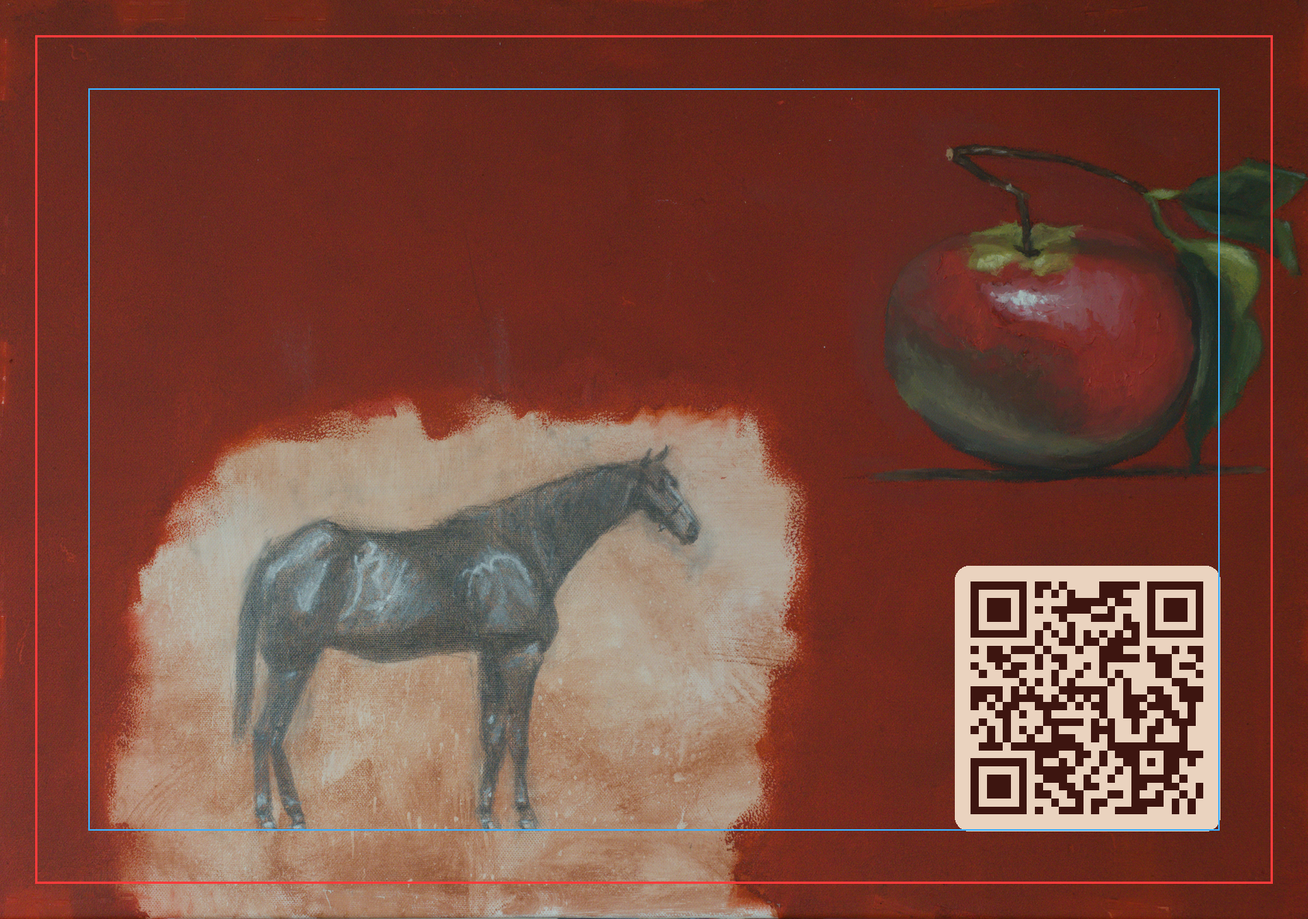
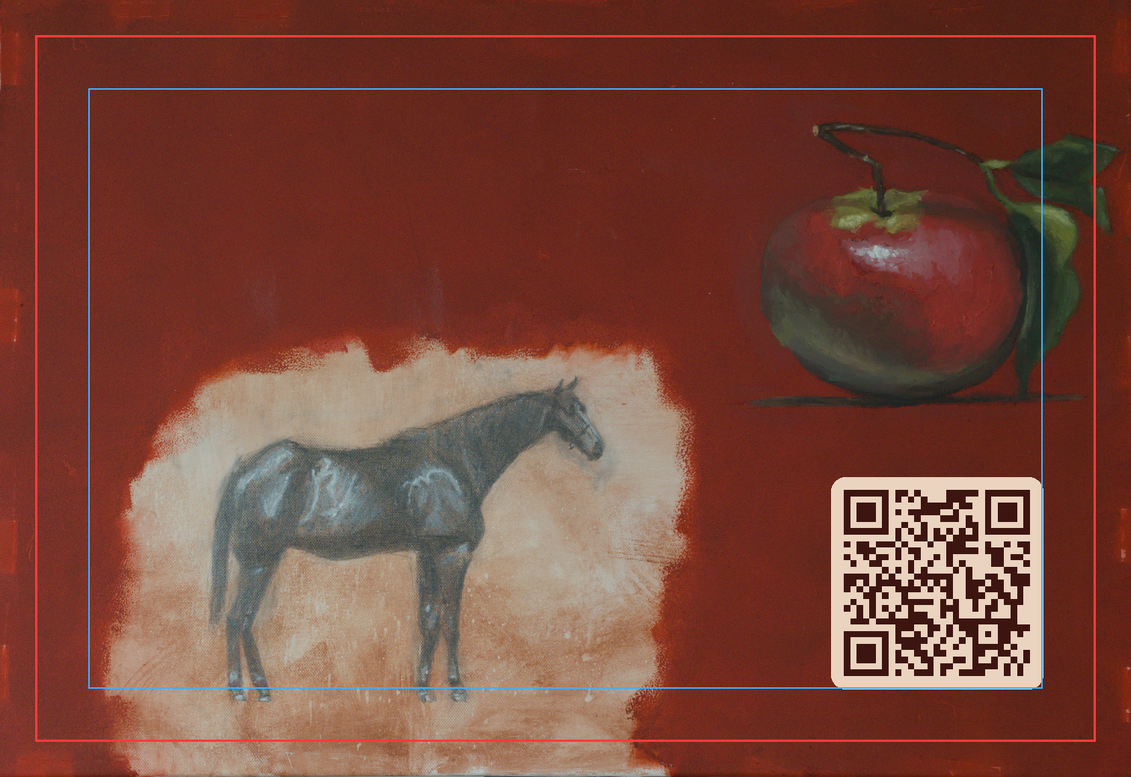
Redraw the horse sticker at 60 x 40 mm with a 12 mm QR code

diff --git a/print/sticker.py b/print/sticker.py
@@ -5,8 +5,9 @@
 The whole of Horse Painting No.01 with a QR code tucked into the empty red
 ground in its lower right corner, and nothing else: no name, no address.
 
-The sticker is 70 x 48 mm, the painting's own proportions at one tenth of its
-size, plus 2 mm of bleed on every side for the printer to trim off. A copy with
+The sticker is 60 x 40 mm, the stock size closest to the painting's own
+proportions (70 x 48 cm), plus 2 mm of bleed on every side for the printer to
+trim off; about 1 mm of the painting's top and bottom edges is lost. A copy with
 the trim and safe lines drawn on is written beside it, for checking only.
 
 The QR code points at the /sticker address, which forwards to the home page
@@ -29,7 +30,7 @@ QR_URL = "https://www.roniluokkamaki.com/sticker"
 
 DPI = 600
 MM = DPI / 25.4
-TRIM_W, TRIM_H = 70, 48
+TRIM_W, TRIM_H = 60, 40
 BLEED = 2 * MM
 W, H = round((TRIM_W + 4) * MM), round((TRIM_H + 4) * MM)
 SAFE = BLEED + 3 * MM
@@ -52,7 +53,8 @@ def draw_sticker(guides: bool) -> Image.Image:
     matrix = list(qr.matrix)
     quiet = 2
     n = len(matrix) + 2 * quiet
-    tile = round(15 * MM)
+    # 12 mm still scans from a normal distance and leaves the painting in charge
+    tile = round(12 * MM)
     module = tile / n
     tx, ty = W - SAFE - tile, H - SAFE - tile
     d.rounded_rectangle((tx, ty, tx + tile, ty + tile), radius=round(0.8 * MM), fill=TILE)
